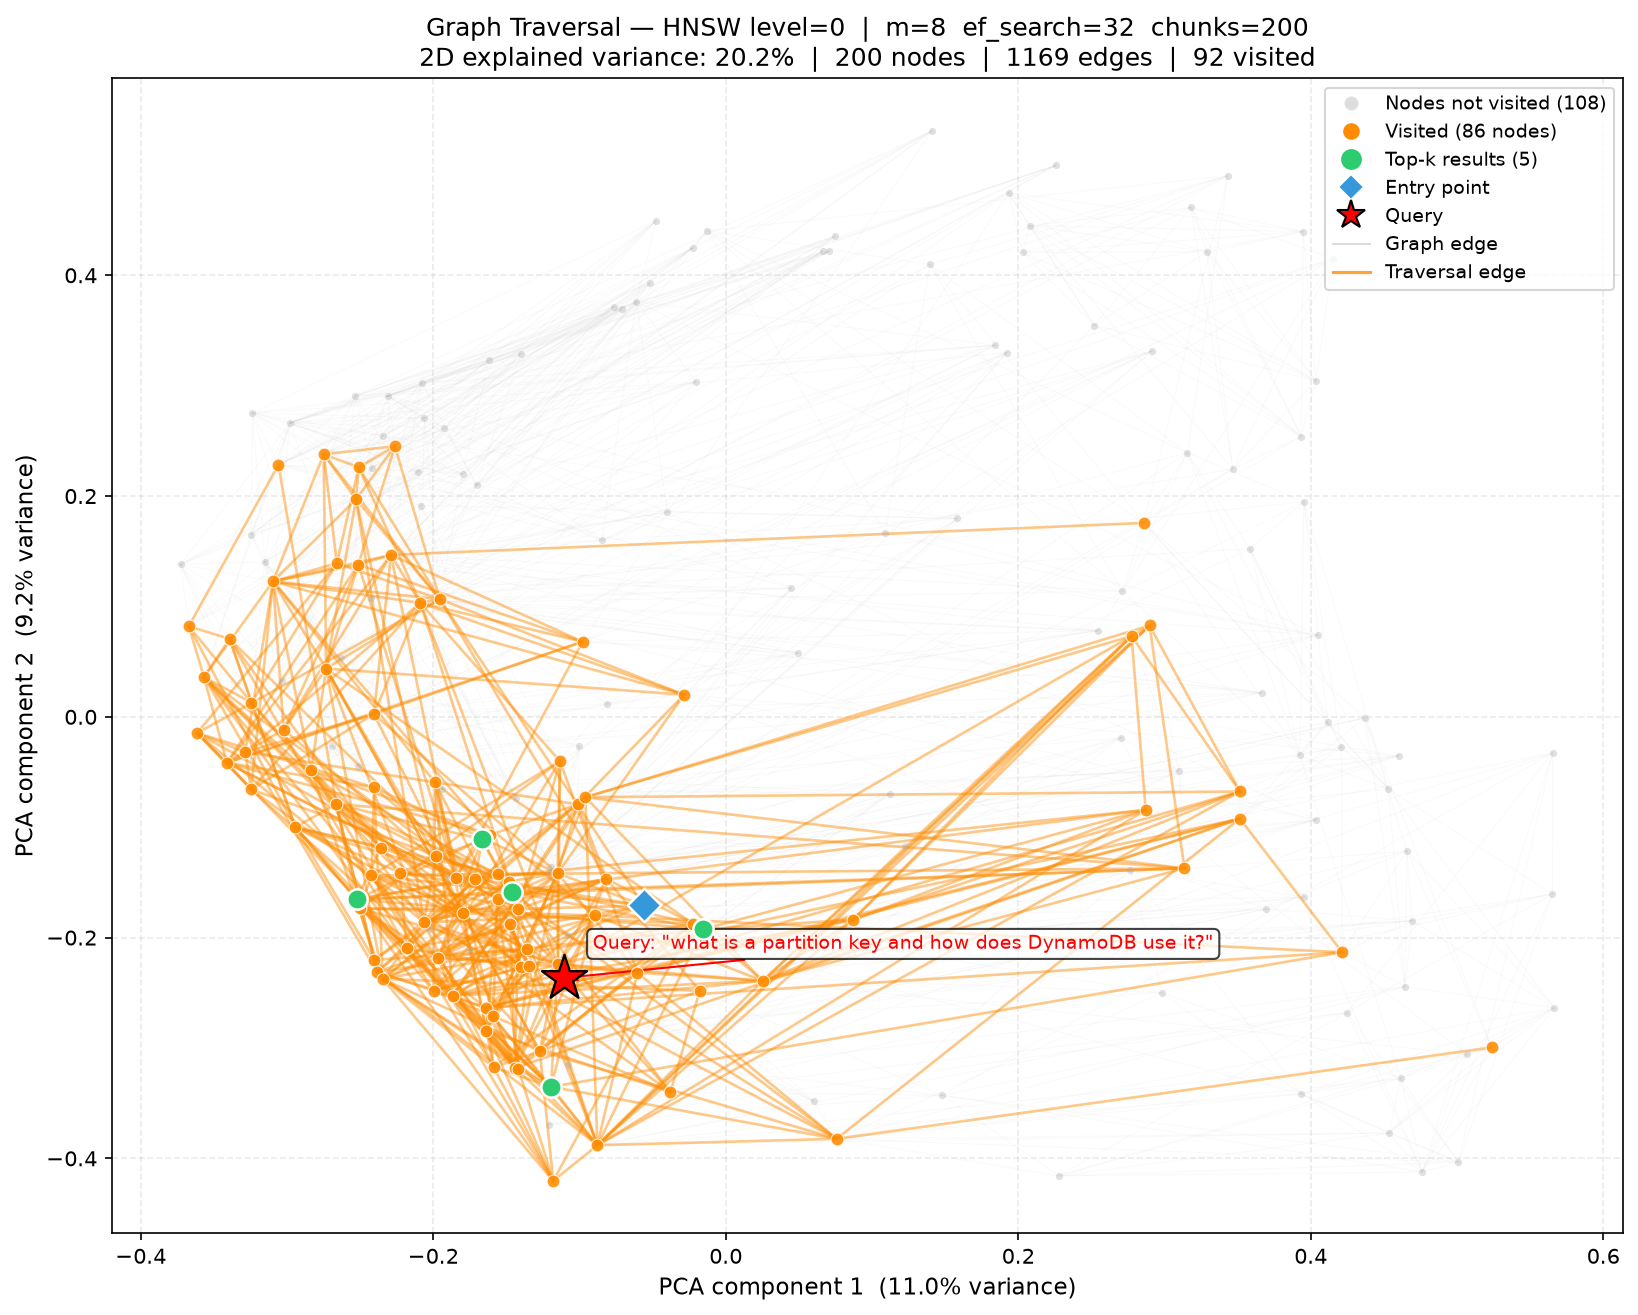
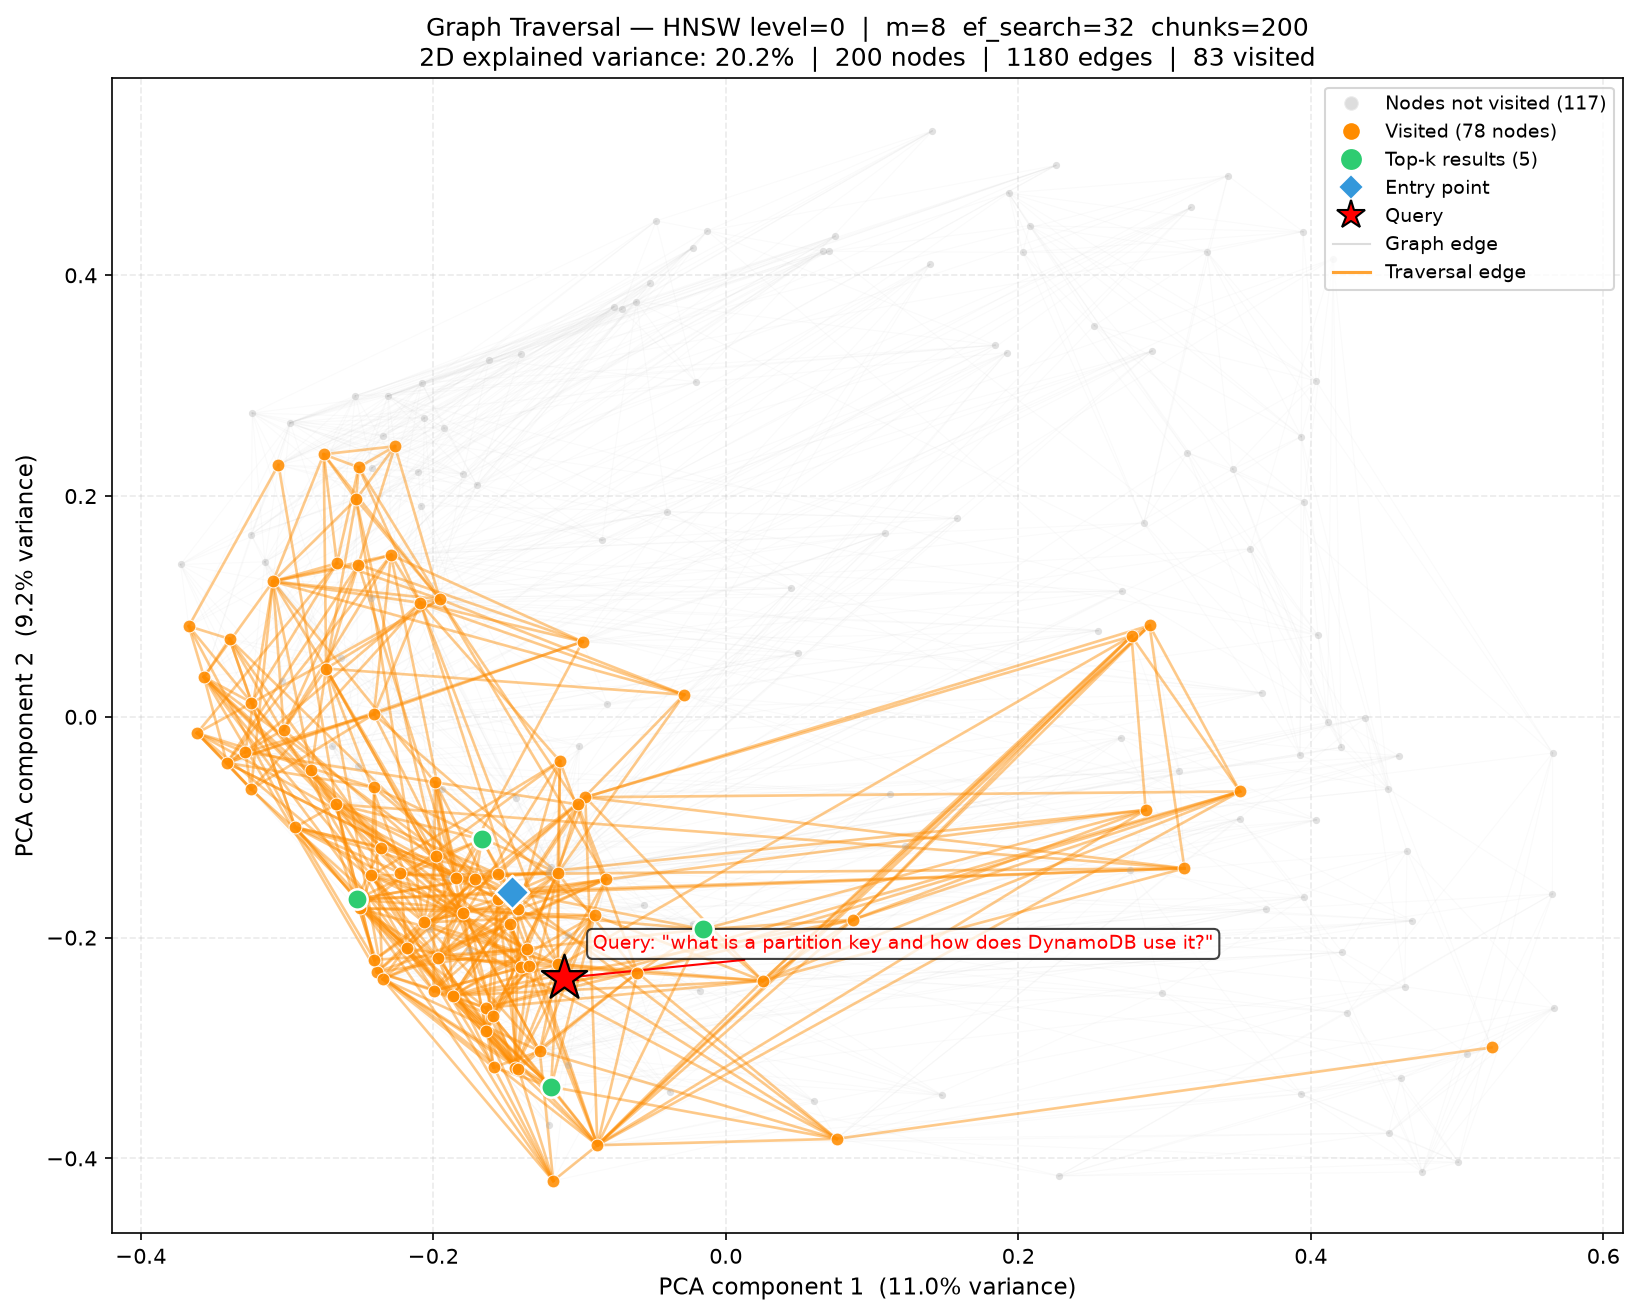
Fix HNSW graph traversal to show level-isolated search paths
- traverse_hnsw now descends to the target level without tracking,
  then records only the search phase at that level
- Blue diamond now marks the level-L entry point (node handed off
  by greedy descent), not the global top-layer entry
- Updated HNSW level 0 and level 1 visualizations and doc stats

diff --git a/visualizations/visualize_graph_traversal.py b/visualizations/visualize_graph_traversal.py
@@ -141,20 +141,38 @@ def traverse_hnsw(
     query_norm: np.ndarray,
     top_k: int,
     level: int,
-) -> tuple[list[str], list[tuple[float, str]]]:
-    diag = SearchDiagnostics(visited_node_ids=[])
+) -> tuple[list[str], list[tuple[float, str]], str | None]:
+    # Navigate to the target level without tracking (untracked descent)
     current = store._entry_point_id
+    for lv in range(store._max_level, level, -1):
+        current = store._greedy_search_layer(query_norm, current, lv)
 
-    for lv in range(store._max_level, 0, -1):
-        current = store._greedy_search_layer(query_norm, current, lv, diag)
+    level_entry_id = current  # actual entry point into the level-L search
 
-    best = store._search_layer(query_norm, current, 0, store.ef_search, diag)
-    best.sort(key=lambda x: x[0], reverse=True)
-    results = [
-        (s, rid) for s, rid in best
-        if rid not in store._tombstone_ids
-    ][:top_k]
-    return diag.visited_node_ids or [], results
+    # Track only the search phase at the selected level
+    diag = SearchDiagnostics(visited_node_ids=[])
+    if level == 0:
+        best = store._search_layer(query_norm, current, 0, store.ef_search, diag)
+        best.sort(key=lambda x: x[0], reverse=True)
+        results = [
+            (s, rid) for s, rid in best
+            if rid not in store._tombstone_ids
+        ][:top_k]
+    else:
+        # Track greedy search at exactly this level
+        store._greedy_search_layer(query_norm, current, level, diag)
+        # Get actual top-k results via separate untracked full search
+        full_current = store._entry_point_id
+        for lv in range(store._max_level, 0, -1):
+            full_current = store._greedy_search_layer(query_norm, full_current, lv)
+        best = store._search_layer(query_norm, full_current, 0, store.ef_search)
+        best.sort(key=lambda x: x[0], reverse=True)
+        results = [
+            (s, rid) for s, rid in best
+            if rid not in store._tombstone_ids
+        ][:top_k]
+
+    return diag.visited_node_ids or [], results, level_entry_id
 
 
 # ── graph structure helpers ───────────────────────────────────────────────────
@@ -435,7 +453,9 @@ def main() -> None:
     if args.store == "flat_nsw":
         visited_ids, results = traverse_flat_nsw(store, query_norm, args.top_k)
     else:
-        visited_ids, results = traverse_hnsw(store, query_norm, args.top_k, args.level)
+        visited_ids, results, entry_point_id = traverse_hnsw(
+            store, query_norm, args.top_k, args.level
+        )
 
     result_ids = {rid for _, rid in results}
     print(f"  Visited: {len(set(visited_ids))} unique nodes")

diff --git a/docs/visualizations/graph_traversal.md b/docs/visualizations/graph_traversal.md
@@ -88,15 +88,20 @@ poetry run python visualizations/visualize_graph_traversal.py \
 | Small gray dots | Light gray, low alpha | Nodes not visited during this search |
 | Larger orange dots | Orange, medium alpha | Nodes visited (explored) during search |
 | Larger green dots | Green, white edge | Top-k result nodes |
-| Blue diamond `◆` | Blue, white edge | Entry point (search starts here) |
+| Blue diamond `◆` | Blue, white edge | Entry point for the search at the selected layer (for HNSW, this is the level-L entry after untracked greedy descent, not the global top-layer entry) |
 | Red star `★` | Red, black edge | Query vector (projected to 2D) |
 | Faint gray lines | Very low alpha | All graph edges at this layer |
 | Orange lines | Medium alpha | Traversal edges (both endpoints visited) |
 
-**How traversal is tracked:** A new opt-in field `visited_node_ids: list[str] | None` was
-added to `SearchDiagnostics`. Normal search paths leave it `None` (zero overhead). The
-visualization script opts in by passing `SearchDiagnostics(visited_node_ids=[])` to the
-internal helper methods, which append each node ID as it is added to the visited set.
+**How traversal is tracked:** An opt-in field `visited_node_ids: list[str] | None` was added to
+`SearchDiagnostics`. Normal search paths leave it `None` (zero overhead). The visualization
+script opts in by passing `SearchDiagnostics(visited_node_ids=[])` to the internal helper
+methods, which append each node ID as it enters the visited set.
+
+For HNSW, tracking is **level-isolated**: the script descends from the top layer to the target
+level without recording any nodes, then tracks only the search phase at the selected level.
+This means orange nodes on a level-L plot are exclusively the nodes scored during that layer's
+search — upper-layer greedy descent and base-layer beam activity on other levels are excluded.
 
 ---
 
@@ -123,16 +128,18 @@ reflecting the ef_search=32 candidate pool limiting expansion after the beam fil
 
 ```
 --store hnsw --max-chunks 200 --m 8 --ef-search 32 --level 0 --query-index 0
-200 nodes · 1169 edges · 92 unique nodes visited
+200 nodes · 1180 edges · 83 unique nodes visited
 ```
 
 ![HNSW level 0 graph traversal](../../visualizations/output/graph_traversal/graph_hnsw_m8_ef32_chunks200_lvl0_q0.png)
 
 HNSW level 0 is the densest layer — every node participates and has up to M=8 bidirectional
-links, giving 1169 edges versus FlatNSW's 800. The search first descends greedily through upper
-layers to find a good entry candidate, then runs a wider ef_search=32 beam at level 0. The
-visited count (92) is slightly higher than FlatNSW (77) because HNSW's greedy descent through
-levels 1–5 adds extra nodes to `visited_node_ids` before the base-layer beam even starts.
+links. The search first descends greedily through upper layers to find a good entry candidate
+(untracked). The blue diamond marks where the level-0 beam search actually starts — the node
+handed off by the untracked greedy descent. From there, the ef_search=32 beam expands outward;
+all nodes it visits are shown in orange, with orange edges connecting visited pairs. The visited
+count (83) is comparable to FlatNSW (77) because both now reflect exclusively the base-layer
+beam, making the comparison fair.
 
 ---
 
@@ -140,16 +147,16 @@ levels 1–5 adds extra nodes to `visited_node_ids` before the base-layer beam e
 
 ```
 --store hnsw --max-chunks 200 --m 8 --ef-search 32 --level 1 --query-index 0
-80 nodes at level 1 · 475 edges · 88 nodes in visited_node_ids
+72 nodes at level 1 · 437 edges · 13 unique nodes visited
 ```
 
 ![HNSW level 1 graph traversal](../../visualizations/output/graph_traversal/graph_hnsw_m8_ef32_chunks200_lvl1_q0.png)
 
-Level 1 is sparser — only ~40% of the 200 nodes are promoted here, and edges show the
-long-range shortcuts that make upper-layer greedy descent fast. `visited_node_ids` at this
-level captures all nodes scored during the full search (greedy descent across all levels +
-base-layer beam), so the visited count appears large relative to the layer. The greedy path
-through level 1 typically touches only a handful of nodes (following the best neighbor each
-step), but the base-layer beam dominates the total count. The sparse long-range structure
-explains why HNSW's greedy descent converges quickly — upper-layer edges span large distances
-in embedding space.
+Level 1 is sparser — only ~36% of the 200 nodes are promoted here, and edges show the
+long-range shortcuts that make upper-layer navigation fast. The blue diamond marks the actual
+entry into the level-1 greedy search — the node handed off by the untracked descent from higher
+layers. From it, the greedy walk follows the single best neighbor at each step, visiting only
+13 nodes before converging. Orange edges connect visited pairs within the level-1 graph,
+so the traversal path is fully visible and correctly rooted at the blue diamond. This accurately
+captures how upper layers behave: a tight greedy walk that quickly narrows the search region
+before handing off to the denser base layer.
